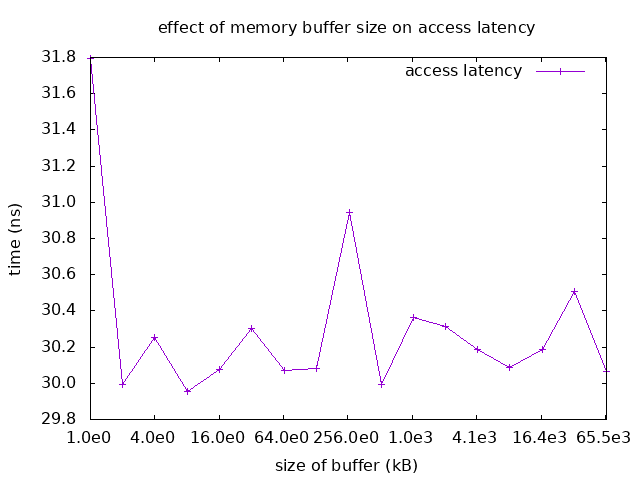
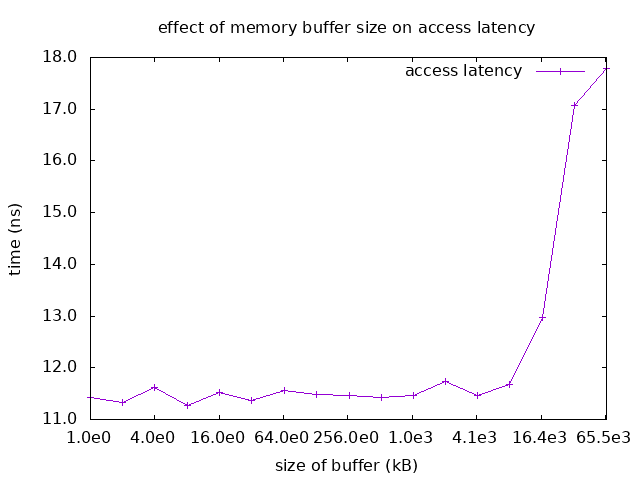
B D satisfactory latency measure, ran new tests, inc size range

diff --git a/hw1/part1.cpp b/hw1/part1.cpp
@@ -22,16 +22,35 @@
 //       so that it can hold it's own indecies
 
 typedef std::chrono::duration<double> duration;
-typedef __int32_t bufferunit;
+typedef __int32_t bufferunit; // big enough so that each
+                              // entry in the buffer can
+                              // represent an index of the buffer
+
+// buffer size constants
+const unsigned BUFFER_SIZE_BYTES_EXP_MIN = 10; // min exponent
+const unsigned BUFFER_SIZE_BYTES_EXP_MAX = 30; // max exponent
+const unsigned BUFFER_UNIT_SIZE_BYTES    = 32; // 32 bytes per entry in buffer
+
+bufferunit buffer_size_bytes_exp_to_buffer_units(unsigned buffer_size_bytes_exp) {
+    // 2^i gives the number of bytes in buffer
+    // 2^i/BUFFER_UNIT_SIZE_BYTES gives the
+    //   number of entries in buffer
+    return std::pow(2,buffer_size_bytes_exp) / BUFFER_UNIT_SIZE_BYTES;
+}
+
+unsigned buffer_units_to_bytes(bufferunit x) {
+    return x * BUFFER_UNIT_SIZE_BYTES;
+} 
 
 // gets a random int in the range [0..n-1]
 bufferunit random_index(bufferunit n) {
-    return rnd = 0 + int((n * rand()) / (RAND_MAX + 1.0));
+    return bufferunit(n * (rand() / (RAND_MAX + 1.0)));
 }
 
 // number of trials to use in calculating
 // the average latency
-const int TRIALS = std::pow(2,24);
+const int TRIALS = std::pow(2,28);
+//const int TRIALS = std::pow(2,3);
 
 /*
  * measure_latency:
@@ -49,61 +68,42 @@ void measure_latency(bufferunit n, bool readable) {
     for (bufferunit i = 0; i < n; i++)
         buffer[i] = random_index(n);
     
-    // store the total of the latencies
-    std::chrono::duration<double> total_elapsed_seconds
-        = duration::zero();
-
+    // `volatile` makes sure this var
+    // and the following loop is not optimized away
+    volatile bufferunit index = 0;
+    
     // start timer
     auto start = std::chrono::steady_clock::now();
 
-    bufferunit index = 0;
     // measure the latency TRIALS times
     for (int i = 0; i < TRIALS; i++) {
         // access an entry of the buffer,
         // also setting the next entry index
         // (yielded from previous random generation)
         index = buffer.at(index);
+        asm(""); // makes sure loop not optimized away
     }
 
     // end timer
     auto end = std::chrono::steady_clock::now();
-
-    // calculate average duration
-    auto duration_secs = end - start;
-    auto duration_secs_avg = duration_secs / TRIALS;
-    auto duration_nanosecs_avg = duration_secs_avg * std::pow(10,9);
-
+    std::chrono::duration<double> duration = end - start;
     
-    auto buffer_size_bytes = buffer_units_to_bytes(n)/1000;
-    auto average_latency_nanosecs = duration_nanosecs.count();
+    // record latency
+    auto latency_avg_nanosecs = duration.count() / TRIALS * std::pow(10,9);
+    auto buffer_size_kilobytes = buffer_units_to_bytes(n)/1000;
+    
     if (readable) {
         std::cout
             << "size of buffer: "
-                << buffer_size_bytes << " kb\n"
+                << buffer_size_kilobytes << " kb\n"
             << "average latency: "
-                << average_latency_nanosecs << " ns\n\n";
+                << latency_avg_nanosecs << " ns\n\n";
     } else {
         std::cout
-            << buffer_size_bytes << " "
-            << average_latency_nanosecs << "\n";
+            << buffer_size_kilobytes << " "
+            << latency_avg_nanosecs << "\n";
     }
 }
-
-// buffer size constants
-const unsigned BUFFER_SIZE_BYTES_EXP_MIN = 10; // min exponent
-const unsigned BUFFER_SIZE_BYES_EXP_MAX  = 26; // max exponent
-const unsigned BUFFER_UNIT_SIZE_BYTES    = 32; // 32 bytes per entry in buffer
-
-bufferunit buffer_size_bytes_exp_to_buffer_units(unsigned buffer_size_bytes_exp) {
-    // 2^i gives the number of bytes in buffer
-    // 2^i/BUFFER_UNIT_SIZE_BYTES gives the
-    //   number of entries in buffer
-    return std::pow(2,buffer_size_bytes_exp) / BUFFER_UNIT_SIZE_BYTES;
-}
-
-unsigned buffer_unit_to_bytes(bufferunit x) {
-    return x * BUFFER_UNIT_SIZE_BYTES;
-} 
 
 /*
  * measure_range_latencies:
@@ -116,8 +116,9 @@ unsigned buffer_unit_to_bytes(bufferunit x) {
 
 
 void measure_range_latencies(bool readable) {
-    for (unsigned i = BUFFER_SIZE_EXP_MIN; i <= BUFFER_SIZE_EXP_MAX; i++) {
-        measure_latency(buffer_size_bytes_exp_to_buffer_units(i),
+    for (unsigned i = BUFFER_SIZE_BYTES_EXP_MIN; i <= BUFFER_SIZE_BYTES_EXP_MAX; i++) {
+        measure_latency(
+            buffer_size_bytes_exp_to_buffer_units(i),
             readable);
     }
 }

diff --git a/hw1/main.cpp b/hw1/main.cpp
@@ -1,6 +1,7 @@
 
 #include <stdio.h>
 #include <stdlib.h>
+#include <ctime>
 #include "part1.h"
 
 /*
@@ -12,7 +13,8 @@ int main(int argc, char** argv) {
     // in order to make the results more
     // in line with the natural order
     // of the universe
-    srand((unsigned) 123456789);
+//    srand((unsigned) 123456789);
+    srand(time(0));
     
     measure_range_latencies(false);
     
